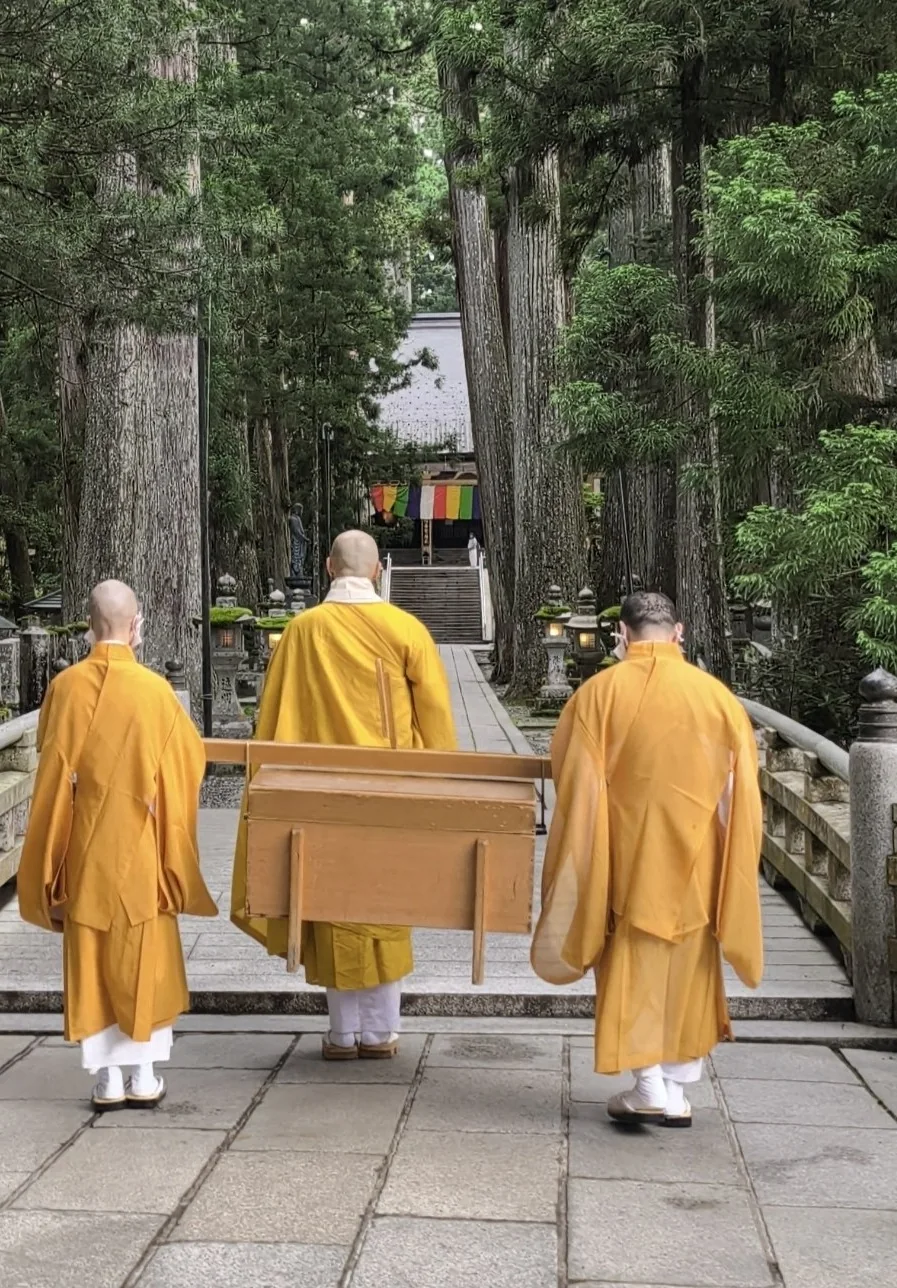
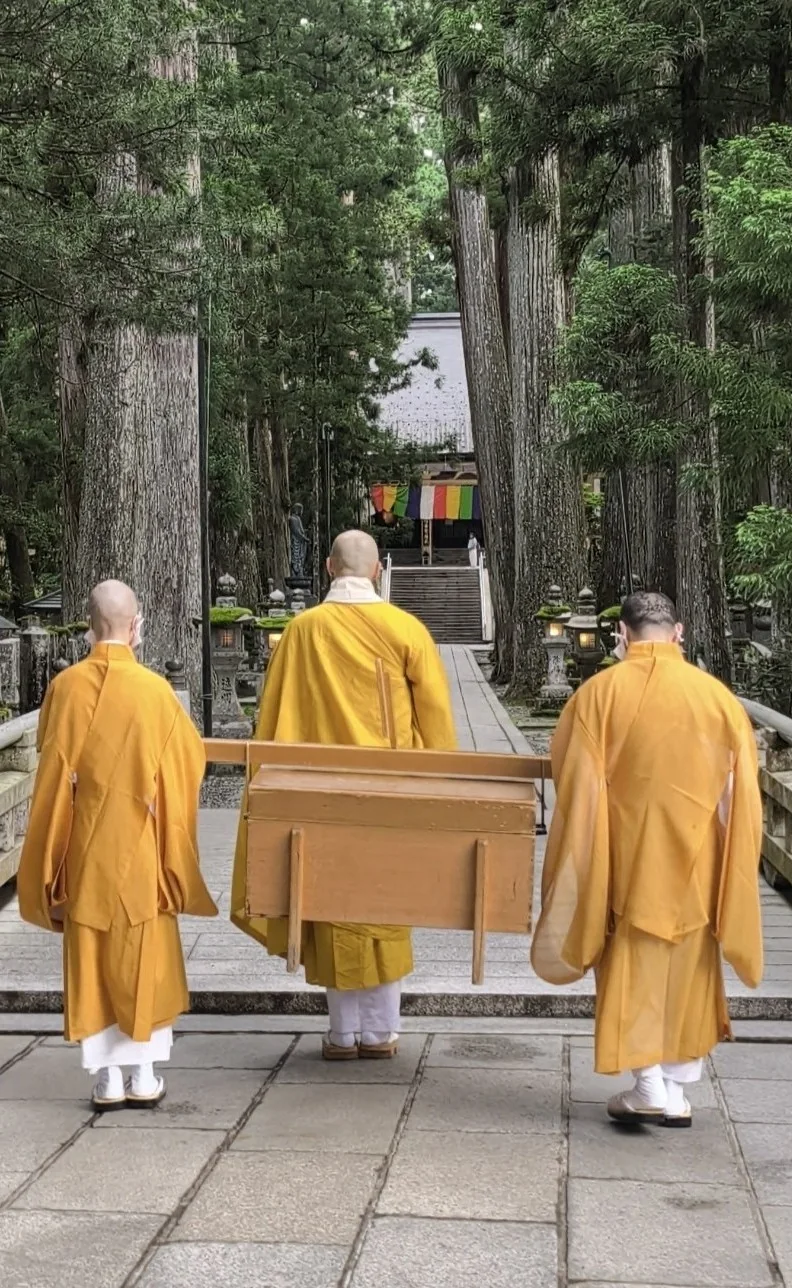
トップ（スマホ）：奥の院の写真で3人が真ん中に来るように切り直す

diff --git a/index.html b/index.html
@@ -705,7 +705,7 @@ footer .f-pv a{text-decoration:underline;text-underline-offset:4px;}
   .interlude{display:block;min-height:0;padding:0;background:var(--ink);}
   .interlude::before{display:none;}
   .il-img{position:relative;inset:auto;}
-  .il-img img{height:auto;aspect-ratio:897/1288;transform:none !important;}
+  .il-img img{height:auto;aspect-ratio:792/1288;transform:none !important;}
   .il-text{padding:32px var(--gut) 56px;}
   .il-v{font-size:26px;letter-spacing:.14em;text-shadow:none;}
   .il-s{text-shadow:none;}
@@ -1004,7 +1004,7 @@ html.motion .otsu-dot{animation:otsuBreath 3.6s ease-in-out infinite;}
 
 <!-- 間奏：千二百年の祈り -->
 <section class="interlude on-dark" aria-label="千二百年の祈り">
-  <div class="il-img"><picture><source media="(max-width:899px)" srcset="images/photos/shojingu-tate.webp" width="897" height="1288"><img src="images/photos/shojingu.webp" srcset="images/photos/shojingu-960.webp 960w, images/photos/shojingu.webp 1033w" sizes="100vw" alt="奥の院の御廟橋を、お大師さまへのお食事を担いでわたる僧侶たち" width="1033" height="860" loading="lazy" data-px></picture></div>
+  <div class="il-img"><picture><source media="(max-width:899px)" srcset="images/photos/shojingu-tate.webp" width="792" height="1288"><img src="images/photos/shojingu.webp" srcset="images/photos/shojingu-960.webp 960w, images/photos/shojingu.webp 1033w" sizes="100vw" alt="奥の院の御廟橋を、お大師さまへのお食事を担いでわたる僧侶たち" width="1033" height="860" loading="lazy" data-px></picture></div>
   <div class="il-text">
     <p class="il-v rv">千二百年、<br>祈りの絶えない山で。</p>
     <p class="il-s rv rv-d1">奥の院では、いまも毎日二度、<br class="sp-br">お大師さまへお食事が運ばれています。<br>本覚院は、その高野山の真ん中にあります。</p>
